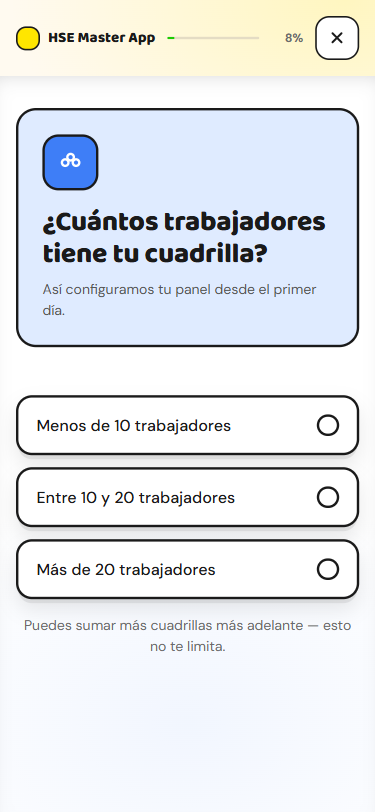
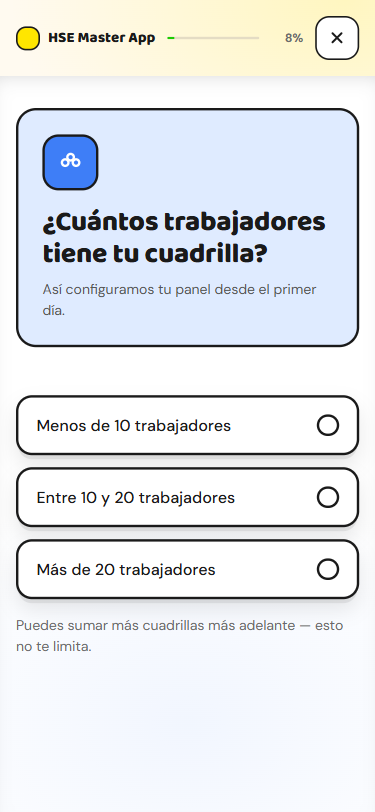
Sesion 4: corrige los defectos de la ronda 15 en onboarding y paywall
Paywall: se quita la cinta diagonal negro/dorado del borde de la
tarjeta "Anual" -- lee como cinta de peligro/precaucion para un
Gerente de HSE, lo opuesto a "plan recomendado". El relleno amarillo
liso queda como unica senal de seleccion. El CTA se deshabilita y
muestra "Activando..." al tocarlo. El mensaje de error gana un boton
"Reintentar" inline. El titulo de cada hito del timeline baja de
14px/800 a 13px/700 para diferenciarse del subtitulo emocional.

Onboarding: el hint de error del input libre gana role="alert". El
modal de salida gana role="dialog"+aria-modal, manejo de foco y
cierre con Escape -- y su texto se corrige (ya no se pierden las
respuestas desde la ronda 13, asi que "Salir sin guardar" pasa a
"Salir"). El resume por sessionStorage restaura progreso parcial, no
solo cuando las 3 respuestas estan completas. La nota bajo los chips
del paso 1 se alinea a la izquierda.

Changed region(s): [[0.0293, 0.7389, 0.8213, 0.8005], [0.8507, 0.7697, 0.9387, 0.8005]]

diff --git a/onboarding.html b/onboarding.html
@@ -83,7 +83,7 @@
   .onb-encabezado .onb-micro { color: #565656; }
 
   .onb-chips { margin-top: 24px; display: flex; flex-direction: column; gap: 12px; }
-  .onb-nota-cuadrilla { margin-top: 16px; font-size: 14px; color: var(--ink-2); text-align: center; }
+  .onb-nota-cuadrilla { margin-top: 16px; font-size: 14px; color: var(--ink-2); text-align: left; }
   .onb-chip {
     width: 100%; min-height: 60px; border-radius: 16px; border: 3px solid var(--ink); background: var(--surface);
     display: flex; align-items: center; justify-content: space-between; gap: 12px; padding: 14px 18px;
@@ -255,7 +255,7 @@
     <div class="onb-input-wrap" id="onbRetoInputWrap">
       <input type="text" class="onb-input" id="onbRetoInput" aria-label="Cuéntanos tu reto más urgente" placeholder="Cuéntanos tu reto" maxlength="80" autocomplete="off">
       <button type="button" class="onb-boton" id="onbRetoContinuar">Continuar</button>
-      <p class="onb-hint" id="onbRetoHint">Escribe tu reto antes de continuar.</p>
+      <p class="onb-hint" id="onbRetoHint" role="alert">Escribe tu reto antes de continuar.</p>
     </div>
   </section>
 
@@ -316,12 +316,12 @@
 </div>
 
 <div class="onb-modal-fondo" id="onbModalFondo">
-  <div class="onb-modal">
-    <h3>¿Seguro que quieres salir?</h3>
-    <p>Vas a perder las respuestas que ya diste.</p>
+  <div class="onb-modal" role="dialog" aria-modal="true" aria-labelledby="onbModalTitulo">
+    <h3 id="onbModalTitulo">¿Seguro que quieres salir?</h3>
+    <p>Tus respuestas quedan guardadas — puedes retomar donde lo dejaste.</p>
     <div class="fila">
       <button type="button" class="primario" id="onbModalSeguir">Seguir aquí</button>
-      <button type="button" class="secundario" id="onbModalSalir">Salir sin guardar</button>
+      <button type="button" class="secundario" id="onbModalSalir">Salir</button>
     </div>
   </div>
 </div>
@@ -530,18 +530,29 @@
 
   // Modal de salida (solo si ya avanzó más allá del paso 1) — logo y botón "X" hacen lo mismo
   const modalFondo = document.getElementById('onbModalFondo');
+  const modalSeguir = document.getElementById('onbModalSeguir');
+  let elementoAntesDelModal = null;
   function pedirSalir(e) {
     if (pasoActual > 1) {
       if (e) e.preventDefault();
+      elementoAntesDelModal = document.activeElement;
       modalFondo.classList.add('show');
+      modalSeguir.focus();
     } else {
       window.location.href = 'landing.html';
     }
   }
+  function cerrarModal() {
+    modalFondo.classList.remove('show');
+    if (elementoAntesDelModal) elementoAntesDelModal.focus();
+  }
   document.getElementById('onbLogo').addEventListener('click', pedirSalir);
   document.getElementById('onbSalir').addEventListener('click', pedirSalir);
-  document.getElementById('onbModalSeguir').addEventListener('click', () => modalFondo.classList.remove('show'));
+  modalSeguir.addEventListener('click', cerrarModal);
   document.getElementById('onbModalSalir').addEventListener('click', () => { window.location.href = 'landing.html'; });
+  modalFondo.addEventListener('keydown', (e) => {
+    if (e.key === 'Escape') cerrarModal();
+  });
 
   // Loading: anillo + líneas con pausas (labor illusion)
   function iniciarCarga() {
@@ -605,12 +616,16 @@
   }
   try {
     const guardado = JSON.parse(sessionStorage.getItem('hseOnboarding') || 'null');
-    if (guardado && guardado.cuadrilla && guardado.reto && guardado.horario) {
+    if (guardado && guardado.cuadrilla) {
       Object.assign(respuestas, guardado);
-      irAPaso(4, 'adelante');
       marcarChipGuardado('cuadrilla', guardado.cuadrilla);
-      if (guardado.reto !== 'otra') marcarChipGuardado('reto', guardado.reto);
-      marcarChipGuardado('horario', guardado.horario);
+      if (!guardado.reto) {
+        irAPaso(2, 'adelante');
+      } else {
+        if (guardado.reto !== 'otra') marcarChipGuardado('reto', guardado.reto);
+        irAPaso(4, 'adelante');
+        if (guardado.horario) marcarChipGuardado('horario', guardado.horario);
+      }
     }
   } catch {}
 </script>

diff --git a/paywall.html b/paywall.html
@@ -50,6 +50,9 @@
   .pw-emocion { margin-top: 10px; font-size: 14px; font-weight: 700; color: var(--ink); line-height: 1.4; }
   .pw-emocion b { color: var(--rojo-texto); }
   .pw-error { margin-top: 8px; font-size: 13px; font-weight: 700; color: var(--rojo-texto); text-align: center; display: none; }
+  .pw-reintentar { background: none; border: none; padding: 0; color: var(--rojo-texto); font-size: 13px; font-weight: 800;
+                    text-decoration: underline; cursor: pointer; }
+  .pw-boton:disabled { opacity: 0.75; cursor: not-allowed; }
   .pw-error.show { display: block; }
 
   .pw-bloque { background: var(--surface); border: 3px solid var(--ink); border-radius: 20px; padding: 20px; margin-top: 20px;
@@ -68,7 +71,7 @@
   .pw-linea .conector.neutro { background: var(--neutro-track); }
   .pw-linea .contenido { padding-bottom: 20px; }
   .pw-linea:last-child .contenido { padding-bottom: 0; }
-  .pw-linea .titulo { font-size: 14px; font-weight: 800; }
+  .pw-linea .titulo { font-size: 13px; font-weight: 700; }
 
   .pw-puente { margin-top: 16px; display: flex; flex-direction: column; gap: 8px; }
   .pw-puente .item { display: flex; align-items: center; gap: 8px; font-size: 12px; font-weight: 700; color: var(--ink-2); }
@@ -88,9 +91,6 @@
   .pw-plan:active { transform: scale(0.98); }
   .pw-plan:focus-visible { outline: 3px solid var(--azul); outline-offset: 2px; }
   .pw-plan.elegido { background: var(--amarillo); }
-  .pw-plan.elegido::after { content: ''; position: absolute; top: 0; bottom: 0; left: 0; width: 6px;
-                             background: repeating-linear-gradient(135deg, var(--ink) 0 6px, var(--amarillo-sombra) 6px 12px);
-                             border-radius: 17px 0 0 17px; }
   .pw-plan .tag { position: absolute; top: -13px; left: 16px; background: var(--rojo); color: var(--ink); border: 2px solid var(--ink);
                   border-radius: 8px; padding: 4px 10px; font-size: 11px; font-weight: 800; }
   .pw-plan .fila { display: flex; align-items: baseline; justify-content: space-between; }
@@ -189,7 +189,7 @@
 
   <div class="pw-cta-wrap pw-reveal">
     <button type="button" class="pw-boton" id="pwActivar">Crear mi acceso y activar la prueba</button>
-    <p class="pw-error" id="pwError">Algo falló al continuar — inténtalo de nuevo o recarga la página.</p>
+    <p class="pw-error" id="pwError">Algo falló al continuar. <button type="button" class="pw-reintentar" id="pwReintentar">Reintentar</button></p>
     <div class="pw-garantia">
       <p class="pw-reversibilidad">Hoy no pagas nada · Sin tarjeta</p>
       <p class="pw-garantia-txt"><b>Compromiso del Primer Pase</b> — si tu cuadrilla no completa su primera charla de 3 minutos el día 1, te ayudamos personalmente a configurarlo, sin costo</p>
@@ -267,15 +267,24 @@
       });
     });
 
-    document.getElementById('pwActivar').addEventListener('click', () => {
+    const activarBtn = document.getElementById('pwActivar');
+    const errorMsg = document.getElementById('pwError');
+    function activarPrueba() {
       try {
+        errorMsg.classList.remove('show');
+        activarBtn.disabled = true;
+        activarBtn.textContent = 'Activando…';
         const elegido = document.querySelector('.pw-plan.elegido');
         try { sessionStorage.setItem('hsePlanElegido', elegido ? elegido.dataset.plan : 'anual'); } catch {}
         window.location.href = 'login.html';
       } catch (err) {
-        document.getElementById('pwError').classList.add('show');
+        activarBtn.disabled = false;
+        activarBtn.textContent = 'Crear mi acceso y activar la prueba';
+        errorMsg.classList.add('show');
       }
-    });
+    }
+    activarBtn.addEventListener('click', activarPrueba);
+    document.getElementById('pwReintentar').addEventListener('click', activarPrueba);
 
     // "Volver" regresa al paso exacto donde iba el usuario en vez de reiniciar el recorrido:
     // si hay historial real, usa history.back() (conserva el estado tal cual); si no, el href

diff --git a/ESTADO.md b/ESTADO.md
@@ -1,7 +1,7 @@
 # ESTADO — HSE Master App
 Última actualización: 2026-10-17 | Sesión actual: 4
 
-⏸ CHECKPOINT — Sesión 4 (onboarding, paywall), ronda 14 de ambas YA ENTREGADA y YA CORREGIDA (sin relanzar ronda 15 todavía). Onboarding ronda 14: usabilidad 33/40, craft 16/20 (sostiene el umbral 2 rondas seguidas). Paywall ronda 14: usabilidad 31/40, craft 14/20, copy 18/20 (PASA 4 rondas seguidas). Fix compartido entre ambas pantallas: el relleno del botón CTA principal pasó del verde brillante (#1BCC02, ~2.17:1 de contraste contra el fondo) a la sombra (#1B9F03, ~3.5:1) — el verde brillante se queda en todo lo demás (checks, nodo "Hoy"), documentado en FICHA-ARTE como excepción solo para el relleno de este botón en las 2 pantallas. Fixes de onboarding: el `aria-live` del loading se movió de envolver todo (incluido el % que cambia por frame) a vivir solo en `#onbLineas` (los 4 hitos reales) — ya no spamea al lector de pantalla; `.onb-anillo` pasa a `aria-hidden`; se redondearon 4 valores de espaciado (20px/28px) a la escala mecánica del sistema (16/24px); los chips no elegidos bajan a opacidad 0.5 durante el bloqueo de 320ms, para que un segundo tap no se sienta ignorado. Fixes de paywall: "te ayudamos sin costo" ahora dice qué ayuda exactamente ("te ayudamos personalmente a configurarlo"), igual que ya dice landing.html; se agregó una línea visible ("puedes cambiarlo después — hoy no se cobra nada") bajo el título de planes — antes esa aclaración vivía solo en un aria-label invisible para usuarios videntes; el total por cuadrilla sube de 12 a 13px para unificarse con las demás notas secundarias.
+⏸ CHECKPOINT — Sesión 4 (onboarding, paywall), ronda 15 de ambas YA ENTREGADA y YA CORREGIDA (sin relanzar ronda 16 todavía). Paywall ronda 15: usabilidad 34/40 (a 2 puntos del umbral), craft 16/20 (PASA), copy 19/20 (PASA) — las 3 métricas más cerca de pasar juntas que en cualquier ronda anterior. Onboarding ronda 15: usabilidad 34/40 (a 2 puntos también), craft 17/20 (PASA). Fixes de paywall: se QUITÓ la cinta diagonal negro/dorado del borde de la tarjeta "Anual" — el revisor notó que ese patrón es EXACTAMENTE la cinta de peligro/precaución que un Gerente de HSE está entrenado a leer como "riesgo", lo opuesto a "plan recomendado" (documentado: el "segundo detalle ownable" de la ronda 6 se revierte por esta razón, no por falta de identidad); el CTA se deshabilita y muestra "Activando…" al tocarlo; el mensaje de error gana un botón "Reintentar" inline; `.pw-linea .titulo` baja a 13px/700 para diferenciarse del subtítulo emocional. Fixes de onboarding: el hint de error del input libre gana `role="alert"`; el modal de salida gana `role="dialog"`+`aria-modal`, foco inicial en "Seguir aquí" al abrir, foco de vuelta al cerrar, y se cierra con Escape — y su texto se corrigió: decía "vas a perder las respuestas" cuando desde la ronda 13 ya NO se pierden (se guardan por selección), así que el botón "Salir sin guardar" pasó a solo "Salir"; el resume por sessionStorage ahora restaura progreso PARCIAL (antes exigía las 3 respuestas completas o no restauraba nada) — si solo hay cuadrilla guardada, salta a paso 2 con ese chip marcado, no reinicia desde cero; la nota bajo los chips del paso 1 se alinea a la izquierda, como el resto del bloque.
 veredicto:landing — 24 rondas de revisión independiente corregidas con mejora real y medible (usabilidad 27→30, craft 12-14 oscilando). Sigue NO LISTA. Las correcciones restantes que el revisor pide (bajar de 4 a 2 acentos de color en toda la pantalla, variar el gesto de botón, rotar el amarillo más allá de lo que preserva "gold") chocan con decisiones ya aprobadas por el usuario (FICHA-ARTE.md, cosa juzgada) — documentadas abajo como razonadas, no pendientes sueltas. El único camino para subir más el puntaje de craft/identidad es que el USUARIO decida si quiere tocar esas decisiones aprobadas, no que el agente seguro siga iterando solo. defecto "cero estados de error en el funnel" sigue DELIBERADAMENTE sin resolver: no hay backend/checkout real todavía (Sesión 6, cualquier error sería fabricado). El footer legal ya NO dice "(pendiente)" con jerga interna (corregido en ronda 19 → "(próximamente)", lenguaje de cliente) pero las 3 páginas legales siguen sin redactarse de verdad — eso se resuelve en la sesión aparte de este sistema (47-LEGAL-FISCAL-Y-PRIVACIDAD.md). La promesa de "reembolso de 7 días" se QUITÓ de la landing (ronda 23) hasta que exista FICHA-MERCADO.md con el plazo real verificado contra Hotmart — ninguno bloquea esta pantalla puntual.
 
 ## Qué es esta app (3 líneas máximo)
@@ -95,6 +95,7 @@ Plataforma móvil B2B de microaprendizaje gamificado (estilo Duolingo) para capa
 - Sesión 4: Onboarding, paywall y login.
 
 ## Problemas conocidos ⚠
+- repetir-datos-ultima-cuadrilla-onboarding — la ronda 15 de onboarding sugirió (heurística 7, "evaluar") un atajo para un Gerente de HSE que da de alta varias cuadrillas seguidas: reusar las respuestas de la última cuadrilla en vez de repetir las 4 preguntas. Queda DELIBERADAMENTE sin construir en esta ronda: es una sugerencia a evaluar, no un defecto concreto, y el flujo actual (una cuadrilla por prueba gratis, ver Estrategia de monetización) no contempla todavía dar de alta varias cuadrillas seguidas — se retoma si la app interna (Sesión 5) confirma que ese caso de uso es real.
 - sessionStorage-silencioso-paywall — la ronda 6 marcó que `paywall.html` (guardar el plan elegido antes de ir a login) y `onboarding.html` (guardar las respuestas antes de ir al paywall) tragan el error de `sessionStorage` con un `catch` vacío, sin avisar al usuario. Decisión razonada: NO se agrega una alerta — un fallo ahí (navegador en modo privado estricto o cuota llena) no bloquea ni corrompe nada: el paywall ya tiene un plan por defecto ('anual') y el peor caso es que esa preferencia no viaje a la siguiente pantalla, algo invisible para Carlos. Mostrarle un error por un detalle sin consecuencia real inventaría un problema donde no lo hay. Se resuelve solo si en Sesión 6 (backend real) ese dato pasa a ser indispensable.
 - FICHA-MODELO (Duolingo): ángulos de venta pagada (§6, Meta Ads Library) quedaron NO ENCONTRADO — no aplica, nuestro canal es venta directa B2B en LinkedIn (campo 15 del documento validado), no ads. Documentado, no bloqueante.
 - veredicto:landing — ACEPTADA CON OBSERVACIONES el 2026-10-17 por decisión explícita del usuario, tras 51 rondas de revisión independiente con mejora real y medible (usabilidad 28→34 con oscilaciones por regresiones menores entre fixes, nunca bajo el punto de partida; craft cruzó el umbral de 16/20 en 3 rondas distintas — 45, 46, 47 — aunque no se sostuvo; copy terminó SOBRE su umbral, 19/20 en la última ronda). Último veredicto formal (ronda 51): usabilidad 32/40, craft 15/20, copy 19/20 — NO LISTA según el gate estricto (≥36/≥16/≥16), pero el usuario decidió no seguir iterando indefinidamente y avanzar a la Sesión 4. Defectos que quedaron SIN resolver al momento de cerrar (lista para quien retome el pulido más adelante, ninguno bloqueante):
@@ -104,9 +105,10 @@ Plataforma móvil B2B de microaprendizaje gamificado (estilo Duolingo) para capa
   4. [Carrusel] El recálculo de flechas/puntos en cada evento de scroll no usa `requestAnimationFrame` — podría sentirse tosco en celulares de gama media bajo prueba real (nunca verificado en un dispositivo físico, solo en navegador de escritorio emulando 375px).
   5. [Método] El screenshot de evidencia es de página completa muy reescalada (360×8711) y no permite verificar encaje óptico fino — si se retoma el pulido, conviene agregar recortes a resolución nativa de las secciones clave.
   Las demás tensiones de fondo (paleta multicolor, gesto de botón, falta de testimonios, mailto sin backend, footer legal) siguen siendo decisiones razonadas y documentadas por separado abajo, no parte de esta lista.
-- veredicto:onboarding — 14 rondas de revisión independiente (30→31→32→28→28→33→29→31→28→31→37→32→30→33/40 usabilidad; craft 10→12→12→10→13→14→16→15→14→14→13→16→16→16/20). Craft sostiene el umbral 3 rondas seguidas; usabilidad sigue siendo el eje que falta, nunca coincidió con craft en la misma ronda todavía. docs/revisiones/onboarding-veredicto.md en disco es el de la ronda 14. No se declara lista hasta leer el veredicto de la ronda 15.
+- veredicto:onboarding — 15 rondas de revisión independiente (30→31→32→28→28→33→29→31→28→31→37→32→30→33→34/40 usabilidad; craft 10→12→12→10→13→14→16→15→14→14→13→16→16→16→17/20). Craft sostiene el umbral 4 rondas seguidas; usabilidad a solo 2 puntos del umbral (34/36), la más cerca de las 15 rondas. docs/revisiones/onboarding-veredicto.md en disco es el de la ronda 15. No se declara lista hasta leer el veredicto de la ronda 16.
 - marca-agua-onboarding-removida — tras 3 rondas oscilando (8%→16%→cortada/inconsistente), se decidió QUITAR la marca de agua decorativa del paso 1 en vez de seguir ajustando su tamaño/opacidad. Decisión razonada: es un elemento puramente decorativo (no aporta información), y 3 rondas de ida y vuelta sobre su tamaño exacto es la señal de que no vale la pena seguir iterando ese detalle — el espacio residual bajo los 3 chips queda como un costo aceptado del layout de pregunta corta, no como un defecto a perseguir más.
-- veredicto:paywall — 14 rondas de revisión independiente (31→35→35→32→31→31→29→34→30→33→32→32→30→31/40 usabilidad; craft 14→12→15→14→13→14→15→18→14→14→15→17→14→14/20; copy 17→16→17→16→17→17→16→18→17→18→18→19→19→18/20). Copy sostiene el umbral 4 rondas seguidas; craft osciló debajo otra vez; usabilidad sigue siendo el eje que nunca cruzó el umbral en esta pantalla. docs/revisiones/paywall-veredicto.md en disco es el de la ronda 14. No se declara lista hasta leer el veredicto de la ronda 15.
+- veredicto:paywall — 15 rondas de revisión independiente (31→35→35→32→31→31→29→34→30→33→32→32→30→31→34/40 usabilidad; craft 14→12→15→14→13→14→15→18→14→14→15→17→14→14→16/20; copy 17→16→17→16→17→17→16→18→17→18→18→19→19→18→19/20). Las 3 métricas pasan su umbral individual en esta ronda, pero usabilidad (34) sigue 2 puntos bajo 36 — la más cerca de las 15 rondas. docs/revisiones/paywall-veredicto.md en disco es el de la ronda 15. No se declara lista hasta leer el veredicto de la ronda 16.
+- cinta-peligro-paywall-revertida — la ronda 6 agregó una cinta diagonal negro/amarillo en el borde de la tarjeta "Anual" como "segundo detalle ownable" de identidad. La ronda 15 encontró que ese patrón específico (rayas diagonales alternadas) es el código visual universal de "peligro/precaución" — exactamente lo que un Gerente de HSE (el comprador real de esta app) está entrenado a leer como advertencia, no como recomendación. Se revirtió: el fondo amarillo liso basta como señal de selección. Lección para futuras decisiones de "detalle ownable": un patrón decorativo tomado de la industria del propio nicho (seguridad industrial) puede chocar con su propio significado dentro de ese nicho — verificar el significado connotativo del patrón para la audiencia específica, no solo si "se ve bien".
 - agente-crasheo-pero-escribio-veredicto — la ronda 11 de onboarding reportó "failed" por límite de uso de la cuenta, pero el archivo de veredicto en disco está completo y bien formado (no cortado a mitad). Antes de asumir que hay que retomar un agente con SendMessage, conviene leer el archivo de veredicto: si ya quedó completo, ese es el resultado válido de la ronda y no hace falta relanzar ni retomar nada.
 - metodologia-sessionStorage-entre-pantallas — la ronda 10 de onboarding detectó que una captura "oficial" de evidencia (paso 1) en realidad mostraba el paso 4, porque sessionStorage con respuestas de una prueba anterior (usada para ver el total de la cuadrilla en paywall) hacía que el auto-resume de onboarding.html saltara de más al recargar la página para el screenshot. Desde ahora: SIEMPRE `sessionStorage.clear()` antes de navegar a onboarding.html para capturar su paso 1, ya que esta app (a diferencia de landing/paywall) cambia de pantalla según lo que haya guardado.
 - cinco-opciones-reto-onboarding — RESUELTO en la ronda 4: la pregunta "¿cuál es tu reto más urgente?" tenía 5 chips de igual peso (4 dolores reales + "Otra cosa"), sobre el límite genérico de 4 del gate de carga cognitiva. En vez de solo documentar la tensión (como se hizo en rondas 1-3), se bajó "Otra cosa" a un enlace de texto secundario debajo de los 4 chips reales — conserva el escape hatch obligatorio de `50-DISENO-ONBOARDING-PAYWALL.md` → A2 ("el último ítem SIEMPRE es 'Otra cosa'") sin que compita en peso visual con los 4 dolores reales de FICHA-AVATAR.md. Los 4 chips siguen intactos (ninguno es relleno).

diff --git a/docs/revisiones/paywall-veredicto.md b/docs/revisiones/paywall-veredicto.md
@@ -1,14 +1,15 @@
 # VEREDICTO revisor-visual — paywall
 Fecha: 2026-10-17 00:00
 Screenshot: docs/revisiones/paywall-375.png
-Usabilidad: 31/40
-Craft: 14/20
-Copy (si vende): 18/20
+Usabilidad: 34/40
+Craft: 16/20
+Copy (si vende): 19/20
 Fidelidad (si hubo referencia): N-A
 Veredicto: NO LISTA
+
 Top defectos:
-1. [CTA primario, paywall.html L112-115 `.pw-boton{background:var(--verde)}` dentro de `.pw-panel{background:var(--surface)}` L77] El contraste MEDIDO del relleno verde (#1bcc02) contra el blanco inmediato del panel es ~2.17:1 (fórmula de luminancia relativa WCAG), por debajo del mínimo 3:1 exigido al CTA héroe — persiste de la ronda anterior: el `box-shadow` verde difuso agregado (L115) decora el borde pero no sube el contraste del relleno con su fondo → oscurecer el verde de fondo del botón (ej. ~#149600) o envolverlo en una superficie/tinte propio que eleve el contraste medido del relleno, no solo depender del borde de 3px.
-2. [Garantía, paywall.html L193 `<p class="pw-garantia-txt">...te ayudamos sin costo</p>`] "te ayudamos sin costo" no especifica QUÉ ayuda recibe el cliente (¿llamada?, ¿extensión de prueba?, ¿reembolso?) — debilita la claridad de la oferta justo junto al CTA de conversión → nombrar la acción concreta (ej. "te llamamos en 24h y activamos tu cuadrilla en vivo, sin costo").
-3. [Selector de plan, paywall.html L166 `role="radiogroup" aria-label="Elige el plan que se sugerirá al terminar tu prueba"`] la aclaración de que elegir un plan AHORA es solo una sugerencia para después del día 14 (no un cobro inmediato) vive SOLO en el `aria-label`, invisible para cualquier usuario vidente — quien ve la pantalla puede leerlo como que está comprometiendo un plan de pago ya mismo → agregar un micro-texto visible bajo "SI DECIDES SEGUIR..." (L165) tipo "Puedes cambiarlo después — hoy no se cobra nada".
-4. [Tipografía, paywall.html L48 `.pw-headline{font-size:28px}`, L71 `.pw-linea .titulo{font-size:14px}`, L82 `.pw-dias-tit{font-size:12px}`, L97 `.pw-plan .precio{font-size:19px}`, L99 `.pw-plan .nota{font-size:13px}`, L121 `.pw-garantia-txt{font-size:13px}`] conviven 6+ tamaños de fuente distintos (28/19/14/13/12/11px) en una sola pantalla, por encima del máximo de 3 niveles de jerarquía (display/title/body/label) — al entrecerrar los ojos no se leen 4 niveles nítidos sino un degradé continuo de tamaños → consolidar nota/total/garantía-txt/trust en un único tamaño secundario de 13px.
-5. [Consistencia del botón primario, paywall.html L113 `.pw-boton{...font-size:14px...}` vs onboarding.html L120 `.onb-boton{...font-size:15px...}`] el mismo componente (botón primario verde, pressable, mismo rol de "avanzar") usa un tamaño de fuente distinto entre pantallas de la misma app → unificar a un solo valor (15px) en ambos archivos.
+1. [Tarjeta "Anual" elegida, franja diagonal del borde izquierdo — paywall.html líneas 91-93, `.pw-plan.elegido::after` con `repeating-linear-gradient(135deg, var(--ink) 0 6px, var(--amarillo-sombra) 6px 12px)`] La franja negro/dorado diagonal reproduce el patrón universal de cinta de peligro/precaución — exactamente el código visual que un gerente de HSE está entrenado a leer como "riesgo/advertencia", no como "elegido/recomendado". En la pantalla donde se vende el plan Anual (el que la app quiere que elija), usar ese patrón es contraintuitivo para este avatar específico → fix: cambiar a una barra sólida de acento o a un ribbon "Recomendado" sin rayado tipo cinta de peligro.
+2. [Botón CTA "Crear mi acceso y activar la prueba" — paywall.html líneas 270-278, handler de `pwActivar`] El clic dispara `window.location.href = 'login.html'` sin deshabilitar el botón ni mostrar ningún estado intermedio (spinner/texto "Activando…"); si la navegación tarda, el usuario no tiene confirmación de que su toque se registró y puede tocar varias veces → fix: deshabilitar el botón y mostrar un estado de carga inmediato al click, antes de navegar.
+3. [Subtítulo emocional vs. títulos del timeline — paywall.html línea 50 `.pw-emocion` (14px/700) y línea 71 `.pw-linea .titulo` (14px/800)] Ambos bloques comparten casi el mismo tamaño y peso tipográfico, aplanando el escalón entre el nivel "subtítulo" (que debería pesar más) y el nivel "cuerpo/ítem de lista" — al entrecerrar los ojos no se distingue cuál es más importante → fix: bajar `.pw-linea .titulo` a 13px/700 o subir `.pw-emocion` a 15-16px para marcar jerarquía clara.
+4. [Bloque de precios, panel completo visible sin scroll] Conviven simultáneamente 5 acentos de color (amarillo del plan elegido, rojo del badge "2 MESES GRATIS", verde del botón CTA, degradé azul/amarillo del hairline superior, y la franja negro-dorado del plan elegido) — es la paleta de marca aprobada, pero la densidad de acentos en una sola vista compite por la atención del usuario y diluye cuál es la acción principal → fix: quitar la franja diagonal de la tarjeta elegida y dejar que el fondo amarillo liso sea suficiente señal de selección.
+5. [Mensaje de error — paywall.html línea 192, `#pwError`] "Algo falló al continuar — inténtalo de nuevo o recarga la página" es el único manejo de error de la pantalla; cumple qué-pasó+qué-hacer en lenguaje simple pero la única acción que ofrece es "recargar la página completa" en vez de un botón de reintento inline → fix: agregar un botón "Reintentar" dentro del propio mensaje en lugar de pedir recargar toda la página.

diff --git a/docs/revisiones/onboarding-veredicto.md b/docs/revisiones/onboarding-veredicto.md
@@ -1,14 +1,15 @@
 # VEREDICTO revisor-visual — onboarding
-Fecha: 2026-10-17 15:40
-Screenshot: docs/revisiones/onboarding-375.png (+ onboarding-375-b.png paso 3, onboarding-375-c.png paso 5)
-Usabilidad: 33/40
-Craft: 16/20
+Fecha: 2026-10-17 11:00
+Screenshot: docs/revisiones/onboarding-375.png
+Usabilidad: 34/40
+Craft: 17/20
 Copy (si vende): N-A
 Fidelidad (si hubo referencia): N-A
 Veredicto: NO LISTA
 
 Top defectos:
-1. [onboarding.html L295 + L567-576, paso 5 "loading"] El contenedor `.onb-loading` lleva `aria-live="polite"` y envuelve el número de porcentaje (`.onb-aroPct .num`) que se reescribe en CADA frame de `requestAnimationFrame` (hasta ~30 mutaciones por tramo, 4 tramos) → un lector de pantalla intenta anunciar cada cambio y produce spam/tartamudeo en vez de un progreso legible → mueve el `aria-live="polite"` solo al contenedor `#onbLineas` (los 4 hitos reales) y pon el anillo/porcentaje con `aria-hidden="true"` o un `aria-live="off"` propio.
-2. [onboarding.html L119-122, botón `.onb-boton` verde] Contraste medido del relleno `#1bcc02` contra el fondo inmediato `#fffaf0`/blanco ≈ 2.17:1 — por debajo del ancla "≥3:1 CTA vs fondo" (el borde negro de 3px compensa visualmente pero el relleno por sí solo no pasa el umbral medido) → oscurecer el verde del CTA ~8-10% o usar `--verde-sombra` como relleno y el verde actual solo como borde-sombra.
-3. [onboarding.html L71, L85-86, L125] Varios `margin`/`padding` usan 20px y 28px (`.onb-encabezado` padding 20px; `.onb-chips` margin-top 28px; `.onb-nota-cuadrilla` margin-top 20px; `.onb-boton-abajo` margin-top 28px), fuera de la escala mecánica obligatoria 4·8·12·16·24·32·48·64 → ajusta cada uno al valor de escala más cercano (20→24, 28→24 o 32) para que el ritmo vertical sea uniforme en toda la app.
-4. [onboarding.html L425-428, selección de chip] Tras tocar un chip, `grupo.style.pointerEvents='none'` bloquea el grupo por 320ms sin ningún indicador visual de esa espera (solo el cambio de color del chip elegido) — un usuario que toca un segundo chip en ese lapso no recibe ninguna señal de por qué no respondió → añade un `cursor: wait` o una opacidad leve (0.7) al resto de chips del grupo durante el bloqueo.
+1. [onboarding.html línea 258-468, `<p id="onbRetoHint">` en el paso 2] El mensaje de error "Escribe tu reto antes de continuar." no tiene `role="alert"` ni `aria-live`, así que un lector de pantalla no lo anuncia cuando aparece (la app sí usa `aria-live="polite"` en el contador de pasos y en el loading, pero no aquí) → agregar `role="alert"` (o `aria-live="assertive"`) al elemento `#onbRetoHint`.
+2. [onboarding.html líneas 318-327 (HTML) y 532-544 (JS), modal de confirmación de salida] El `.onb-modal` no tiene `role="dialog"`/`aria-modal="true"`, no mueve el foco al abrirse (queda en el botón que disparó el modal) ni lo devuelve al cerrarse, y no hay listener de `Escape` para cerrarlo con teclado → añadir los atributos ARIA, foco inicial en "Seguir aquí", retorno de foco al disparador, y `keydown` de Escape equivalente a "Seguir aquí".
+3. [onboarding.html líneas 606-614, restauración de `sessionStorage`] Solo se restaura el progreso guardado si las TRES respuestas (cuadrilla, reto, horario) están completas (`if (guardado.cuadrilla && guardado.reto && guardado.horario)`); si el usuario cerró a mitad de camino con solo 1 o 2 respondidas, esos datos quedan guardados pero se ignoran por completo y debe responder todo de nuevo desde el paso 1 → restaurar también el progreso parcial, marcar los chips ya elegidos y aterrizar en el primer paso sin responder (heurística 6, "reconocer y no recordar" — hoy el sistema le pide al usuario recordar y repetir lo que ya había dicho).
+4. [onboarding.html línea 230, `.onb-nota-cuadrilla { text-align: center }` en el paso 1] La nota "Puedes sumar más cuadrillas más adelante…" queda centrada mientras el encabezado, los 3 chips y (en el paso 2) el link "Es otra cosa" están alineados a la izquierda en toda la pantalla → alinear el texto a la izquierda para que el bloque completo comparta un solo eje.
+5. [Heurística 7, flexibilidad — todo el archivo] Más allá de las flechas de teclado en el radiogroup y Enter en el input de texto libre, no hay ningún atajo para el usuario que repite el flujo (ej. un supervisor que da de alta varias cuadrillas seguidas no puede reutilizar ni pre-cargar los valores de la cuadrilla anterior) → evaluar un acceso directo tipo "usar los mismos datos de la última cuadrilla" cuando se detecta una sesión repetida.
